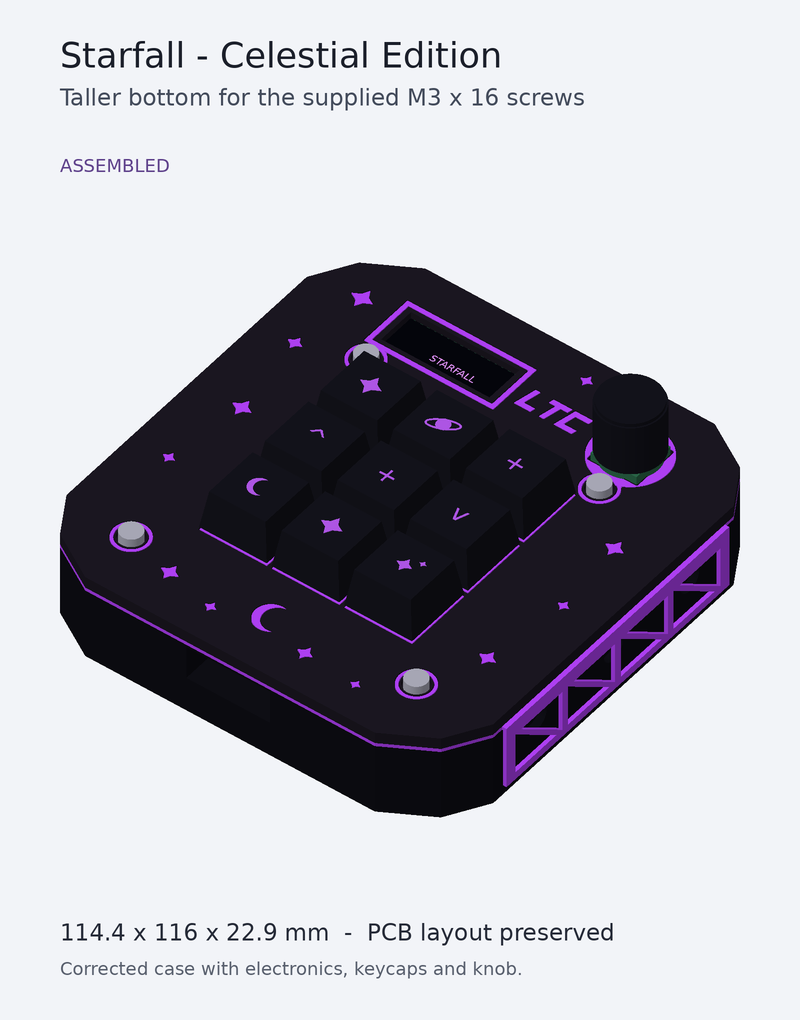
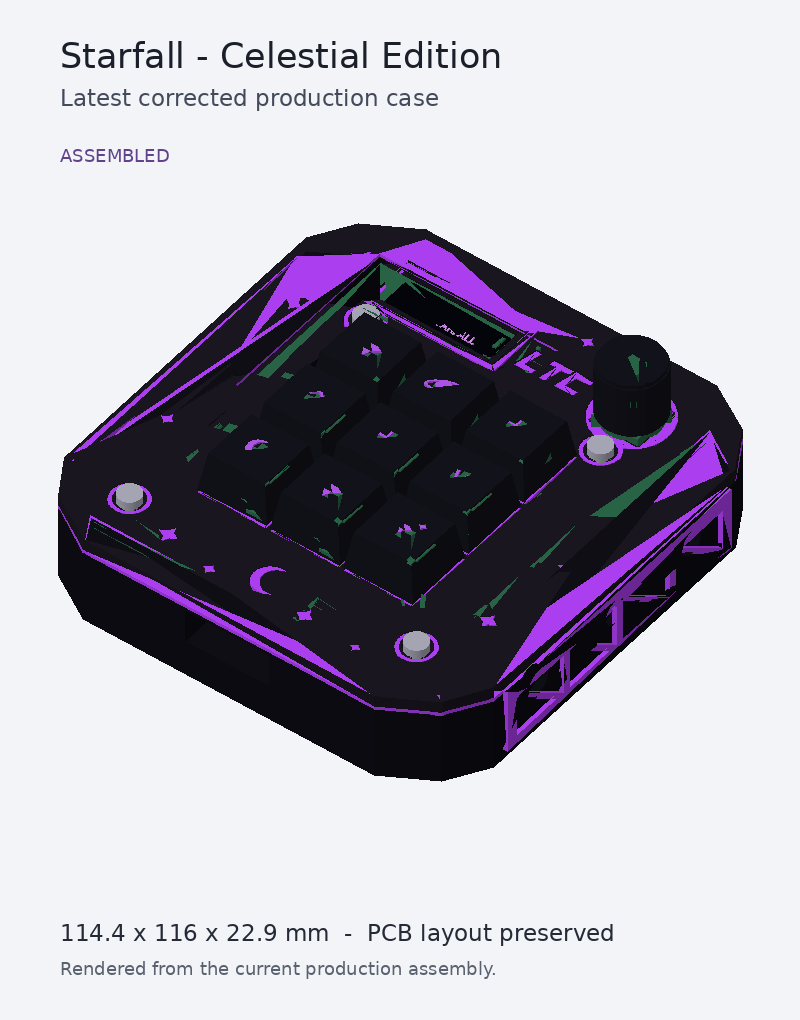
Update previews to latest corrected case

diff --git a/tools/render_assembly.py b/tools/render_assembly.py
@@ -79,38 +79,19 @@ def render_model(size, camera, margin=70, exploded=False, background=(242, 244, 
     midpoint_y = (projected_y.max() + projected_y.min()) / 2
 
     image = Image.new("RGB", (width * SCALE, height * SCALE), background)
-    pixels = np.array(image)
-    zbuffer = np.full((height * SCALE, width * SCALE), -np.inf, dtype=np.float32)
-
-    for _, tri, color in triangles:
+    draw = ImageDraw.Draw(image)
+    # Draw back-to-front. This is much faster than the old per-pixel
+    # barycentric z-buffer and is accurate for these non-intersecting parts.
+    for _, tri, color in sorted(triangles, key=lambda item: item[0]):
         coords = np.column_stack(
             (
                 center_x + (tri @ right - midpoint_x) * render_scale,
                 center_y - (tri @ up - midpoint_y) * render_scale,
             )
         )
-        xmin, ymin = np.maximum(np.floor(coords.min(axis=0)).astype(int), [0, 0])
-        xmax, ymax = np.minimum(
-            np.ceil(coords.max(axis=0)).astype(int), [width * SCALE - 1, height * SCALE - 1]
-        )
-        if xmax < xmin or ymax < ymin:
-            continue
-        xx, yy = np.meshgrid(np.arange(xmin, xmax + 1) + 0.5, np.arange(ymin, ymax + 1) + 0.5)
-        a, b, c = coords
-        denominator = (b[1] - c[1]) * (a[0] - c[0]) + (c[0] - b[0]) * (a[1] - c[1])
-        if abs(denominator) < 1e-9:
-            continue
-        u = ((b[1] - c[1]) * (xx - c[0]) + (c[0] - b[0]) * (yy - c[1])) / denominator
-        v = ((c[1] - a[1]) * (xx - c[0]) + (a[0] - c[0]) * (yy - c[1])) / denominator
-        w = 1 - u - v
-        depth = tri @ camera
-        zz = u * depth[0] + v * depth[1] + w * depth[2]
-        buffer = zbuffer[ymin : ymax + 1, xmin : xmax + 1]
-        mask = (u >= -1e-8) & (v >= -1e-8) & (w >= -1e-8) & (zz > buffer)
-        buffer[mask] = zz[mask]
-        pixels[ymin : ymax + 1, xmin : xmax + 1][mask] = color
+        draw.polygon([tuple(point) for point in coords], fill=color)
 
-    return Image.fromarray(pixels).resize((width, height), Image.Resampling.LANCZOS)
+    return image.resize((width, height), Image.Resampling.LANCZOS)
 
 
 def save_plain(name, camera, exploded=False):
